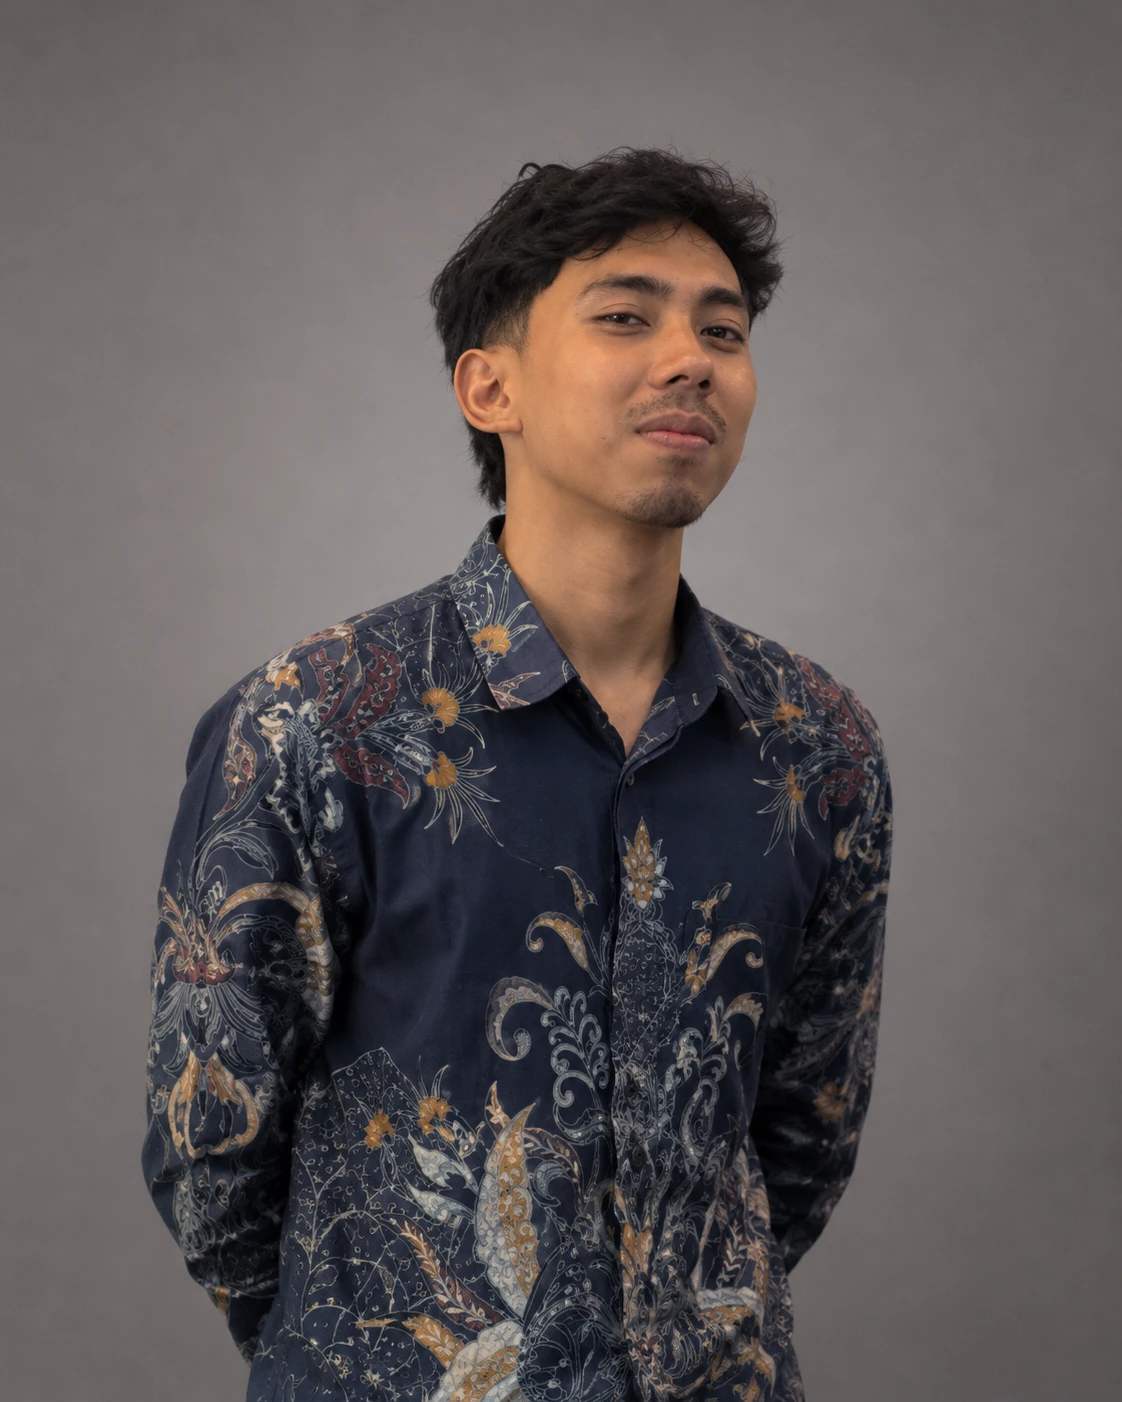
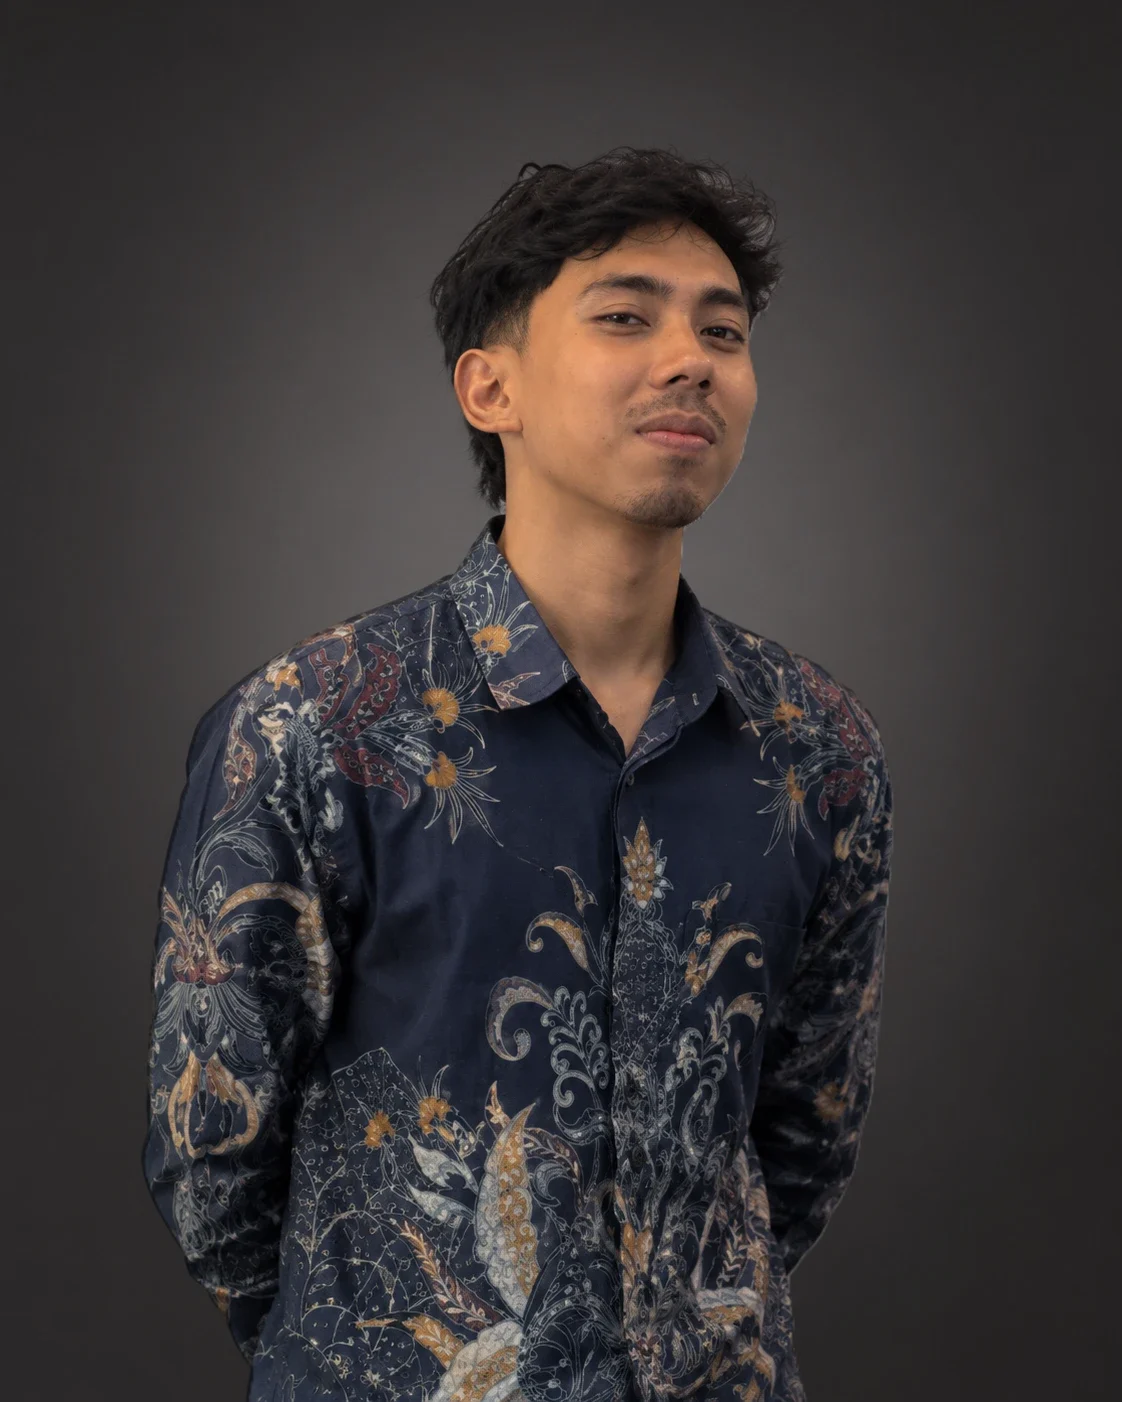
Set the hero like a magazine cover
The name now sits on the left in Instrument Serif, with the role and
"Based in Kuala Lumpur" under a short rule. The portrait moves right of
centre and is cropped mid-torso so the face reads bigger.

The studio backdrop is darkened to a warm charcoal, using the cut-out
only as a mask, so the body keeps its original pixels and edges. The
moving name is gone; each line of the name slides up after the intro.

diff --git a/css/style.css b/css/style.css
@@ -1,7 +1,8 @@
 /*
  * Afiq Izzudin, portfolio
  * Editorial feel inspired by dennissnellenberg.com, with its own identity:
- * a warm grey hero taken from the portrait, a white middle, a near-black footer and one navy accent.
+ * a dark warm grey hero taken from the portrait, a white middle, a near-black footer and one navy accent.
+ * The name is set in Instrument Serif, the serif sister of the body font.
  */
 
 /* ---------- Tokens ---------- */
@@ -18,12 +19,13 @@
   --navy: #1e3a8a;
   --navy-hover: #2747a8;
 
-  /* Sampled from the portrait's studio backdrop, so the photo blends into the hero. */
-  --hero-center: #847e7d;
-  --hero-mid: #716b6b;
-  --hero-edge: #5b5655;
+  /* Sampled from the portrait's darkened studio backdrop, so the photo blends into the hero. */
+  --hero-center: #3a3635;
+  --hero-mid: #302d2c;
+  --hero-edge: #252322;
 
   --font: "Instrument Sans", "Helvetica Neue", Arial, sans-serif;
+  --font-display: "Instrument Serif", Georgia, "Times New Roman", serif;
   --tracking: 0.02em;
   --ease-out: cubic-bezier(0.22, 1, 0.36, 1);
   --ease-in-out: cubic-bezier(0.76, 0, 0.24, 1);
@@ -241,114 +243,106 @@ html.lenis body {
 
 /* ---------- Hero ---------- */
 
+/* An editorial cover: the name on the left, the portrait right of centre, lit from behind. */
 .hero {
-  /* Shared by the moving name and the location line that sits on top of it. */
-  --name-size: clamp(88px, 15vw, 232px);
-  --name-bottom: clamp(12px, 4vh, 44px);
   position: relative;
   height: 100svh;
   min-height: 640px;
   overflow: hidden;
-  background: radial-gradient(ellipse 75% 85% at 50% 30%, var(--hero-center) 0%, var(--hero-mid) 55%, var(--hero-edge) 100%);
+  background: radial-gradient(ellipse 55% 95% at 66% 57%, var(--hero-center) 0%, var(--hero-mid) 50%, var(--hero-edge) 100%);
   color: var(--white);
 }
 
-/* The studio portrait, with its edges faded into the matching hero grey. */
+/* The studio portrait, its backdrop darkened to the hero grey and its edges faded out.
+   It is enlarged so the frame cuts mid-torso, above the elbows, and the face reads bigger. */
 .hero__photo {
   position: absolute;
-  bottom: 0;
-  left: 50%;
+  top: -4%;
+  left: 66%;
   width: auto;
   max-width: none;
-  height: 92%;
+  height: 139%;
   transform: translateX(-50%);
   -webkit-mask-image:
-    linear-gradient(to right, transparent 0, #000 18%, #000 82%, transparent 100%),
-    linear-gradient(to bottom, transparent 0, #000 14%);
+    linear-gradient(to right, transparent 0, #000 14%, #000 88%, transparent 100%),
+    linear-gradient(to bottom, transparent 0, #000 12%);
   -webkit-mask-composite: source-in;
   mask-image:
-    linear-gradient(to right, transparent 0, #000 18%, #000 82%, transparent 100%),
-    linear-gradient(to bottom, transparent 0, #000 14%);
+    linear-gradient(to right, transparent 0, #000 14%, #000 88%, transparent 100%),
+    linear-gradient(to bottom, transparent 0, #000 12%);
   mask-composite: intersect;
 }
 
-/* Ends just before the portrait's left arm, which reaches further out than the right one. */
-.hero__location {
+.hero__intro {
   position: absolute;
-  right: calc(50% + max(17vw, 27svh + 60px, 240px));
-  bottom: calc(var(--name-bottom) + var(--name-size) + 24px);
-  font-size: clamp(16px, 1.6vw, 26px);
-  line-height: 1.25;
-  white-space: nowrap;
+  bottom: clamp(32px, 8svh, 88px);
+  left: var(--gutter);
+  z-index: 1;
 }
 
-/* Starts just past the portrait's shoulder, so it follows the photo's height as well as the page width. */
-.hero__role {
-  position: absolute;
-  top: 36%;
-  right: var(--gutter);
-  left: calc(50% + max(16vw, 21svh + 64px, 200px));
-  font-size: clamp(20px, 2.1vw, 32px);
-  line-height: 1.25;
+.hero__name {
+  font-family: var(--font-display);
+  font-size: clamp(64px, min(12vw, 21svh), 200px);
+  font-weight: 400;
+  line-height: 0.92;
+  letter-spacing: -0.01em;
 }
 
-.hero__arrow {
+/* Each line of the name slides up from behind its own edge when the intro ends. */
+.hero__line {
   display: block;
-  width: 22px;
-  height: 22px;
-  margin-bottom: 28px;
-  fill: none;
-  stroke: currentColor;
-  stroke-width: 1.4;
-}
-
-.marquee {
-  position: absolute;
-  right: 0;
-  bottom: var(--name-bottom);
-  left: 0;
   overflow: hidden;
-  pointer-events: none;
+  /* Room for the tail of the q. */
+  padding-bottom: 0.1em;
+  margin-bottom: -0.1em;
 }
 
-.marquee__track {
-  display: flex;
-  width: max-content;
-  will-change: transform;
+.hero__line > span {
+  display: block;
 }
 
-.marquee__item {
-  display: flex;
-  align-items: center;
-  padding-right: 0.24em;
-  font-size: var(--name-size);
-  line-height: 1;
-  letter-spacing: -0.03em;
-  white-space: nowrap;
+.hero__role {
+  margin-top: clamp(20px, 5svh, 48px);
+  font-size: clamp(18px, 1.9vw, 30px);
+  line-height: 1.3;
 }
 
-/* The separator after the name is a drawn line, not a dash character. */
-.marquee__dash {
-  display: inline-block;
-  width: 0.42em;
-  height: 0.05em;
-  margin-left: 0.24em;
+/* A short drawn rule above the location, like a caption under a cover photo. */
+.hero__location {
+  margin-top: clamp(28px, 8svh, 80px);
+  color: rgba(255, 255, 255, 0.72);
+  font-size: 14px;
+}
+
+.hero__location::before {
+  content: "";
+  display: block;
+  width: 64px;
+  height: 1px;
+  margin-bottom: 14px;
   background: currentColor;
 }
 
 /* The hero rises into place as the intro curtain lifts. */
 .hero__photo,
-.hero__location,
 .hero__role,
-.marquee {
+.hero__location,
+.hero__line > span {
   transition: translate 1.2s var(--ease-out) 0.15s;
 }
 
+.hero__line:nth-child(2) > span {
+  transition-delay: 0.23s;
+}
+
 .is-intro .hero__photo,
-.is-intro .hero__location,
 .is-intro .hero__role,
-.is-intro .marquee {
+.is-intro .hero__location {
   translate: 0 60px;
+}
+
+.is-intro .hero__line > span {
+  translate: 0 110%;
 }
 
 /* ---------- Buttons and links ---------- */
@@ -989,28 +983,33 @@ html.lenis body {
     grid-column: 1 / -1;
   }
 
-  /* On small screens the title sits over the busy batik pattern, so a soft shadow keeps it readable. */
-  .hero__role {
-    top: auto;
-    right: auto;
-    bottom: calc(15vw + 64px);
-    left: var(--gutter);
-    width: auto;
-    font-size: 20px;
-    text-shadow: 0 1px 14px rgba(0, 0, 0, 0.45);
+  /* On narrow screens the name moves to the top and the portrait sits below it. */
+  .hero {
+    background: radial-gradient(ellipse 90% 70% at 50% 70%, var(--hero-center) 0%, var(--hero-mid) 50%, var(--hero-edge) 100%);
   }
 
-  .hero__arrow {
-    margin-bottom: 14px;
+  .hero__photo {
+    top: 34%;
+    left: 50%;
+    height: 80%;
+  }
+
+  .hero__intro {
+    top: clamp(96px, 14svh, 132px);
+    bottom: auto;
+  }
+
+  .hero__name {
+    font-size: clamp(56px, 15vw, 112px);
+  }
+
+  .hero__role {
+    margin-top: 16px;
+    font-size: 18px;
   }
 
   .hero__location {
-    top: 120px;
-    right: auto;
-    bottom: auto;
-    left: var(--gutter);
-    font-size: 16px;
-    text-shadow: 0 1px 14px rgba(0, 0, 0, 0.45);
+    margin-top: 20px;
   }
 
   .footer__rule .circle-btn {

diff --git a/index.html b/index.html
@@ -18,7 +18,7 @@
   <link rel="icon" href="assets/favicon.svg" type="image/svg+xml">
   <link rel="preconnect" href="https://fonts.googleapis.com">
   <link rel="preconnect" href="https://fonts.gstatic.com" crossorigin>
-  <link rel="stylesheet" href="https://fonts.googleapis.com/css2?family=Instrument+Sans:wdth,wght@75..100,400..600&display=swap">
+  <link rel="stylesheet" href="https://fonts.googleapis.com/css2?family=Instrument+Sans:wdth,wght@75..100,400..600&family=Instrument+Serif&display=swap">
   <link rel="stylesheet" href="css/style.css">
   <link rel="preload" href="assets/afiq.webp" as="image" type="image/webp">
 
@@ -46,21 +46,15 @@
 
   <main id="main">
     <section class="hero" id="top" aria-labelledby="hero-title">
-      <h1 class="visually-hidden" id="hero-title">Afiq Izzudin, Business Process &amp; Automation Analyst in Kuala Lumpur</h1>
       <img class="hero__photo" src="assets/afiq.webp" alt="Afiq Izzudin, smiling, in a navy batik shirt" width="1122" height="1402" fetchpriority="high">
 
-      <p class="hero__location">Based in Kuala Lumpur</p>
-
-      <p class="hero__role">
-        <svg class="hero__arrow" viewBox="0 0 24 24" aria-hidden="true"><path d="M6 6l12 12M18 9v9H9"/></svg>
-        <span>Business Process &amp;<br>Automation Analyst</span>
-      </p>
-
-      <div class="marquee" aria-hidden="true">
-        <div class="marquee__track">
-          <span class="marquee__item">Afiq Izzudin<span class="marquee__dash"></span></span>
-          <span class="marquee__item">Afiq Izzudin<span class="marquee__dash"></span></span>
-        </div>
+      <div class="hero__intro">
+        <h1 class="hero__name" id="hero-title">
+          <span class="hero__line"><span>Afiq</span></span>
+          <span class="hero__line"><span>Izzudin</span></span>
+        </h1>
+        <p class="hero__role">Business Process &amp;<br>Automation Analyst</p>
+        <p class="hero__location">Based in Kuala Lumpur</p>
       </div>
     </section>
 

diff --git a/js/main.js b/js/main.js
@@ -3,7 +3,6 @@
  */
 import { initClock } from './clock.js';
 import { initFooterCurve } from './footer-curve.js';
-import { initMarquee } from './marquee.js';
 import { playIntro } from './preloader.js';
 import { initReveal } from './reveal.js';
 import { initSmoothScroll } from './smooth-scroll.js';
@@ -13,7 +12,6 @@ const reduceMotion = window.matchMedia('(prefers-reduced-motion: reduce)').match
 
 const scroller = initSmoothScroll({ enabled: !reduceMotion });
 playIntro(document.querySelector('.preloader'), scroller);
-initMarquee(document.querySelector('.marquee__track'), scroller, { reduceMotion });
 initReveal({ reduceMotion });
 initToolPreview(document.querySelector('.tool-list'), document.querySelector('.tool-preview'));
 initFooterCurve(document.querySelector('.footer__curve'));

diff --git a/README.md b/README.md
@@ -8,7 +8,7 @@ Portfolio of **Ahmad Afiq Izzudin**, Business Process & Automation Analyst in Ku
 
 ## What is on the page
 
-1. **Hero** with a moving name and a short intro.
+1. **Hero** set like a magazine cover: the name, the role and the portrait.
 2. **What I do**, in one sentence.
 3. **Real impact** from automation projects at Worldline, each with the problem, what I did and the result.
 4. **Tools I built**: [Data Cleaner](https://afiqizzudinnn.github.io/excel-data-cleaner/), [Report Merger](https://afiqizzudinnn.github.io/excel-report-merger/) and [ROI Calculator](https://afiqizzudinnn.github.io/automation-roi-calculator/), all free and open source.
@@ -17,7 +17,7 @@ Portfolio of **Ahmad Afiq Izzudin**, Business Process & Automation Analyst in Ku
 
 ## How it is built
 
-No framework, no build step and no server. Plain HTML, CSS and JavaScript modules, with [Lenis](https://github.com/darkroomengineering/lenis) for smooth scrolling and [Instrument Sans](https://fonts.google.com/specimen/Instrument+Sans) for type. Each script does one job:
+No framework, no build step and no server. Plain HTML, CSS and JavaScript modules, with [Lenis](https://github.com/darkroomengineering/lenis) for smooth scrolling, [Instrument Sans](https://fonts.google.com/specimen/Instrument+Sans) for type and [Instrument Serif](https://fonts.google.com/specimen/Instrument+Serif) for the name. Each script does one job:
 
 ```
 index.html              page markup and content
@@ -26,7 +26,6 @@ js/intro-check.js       decides before the first paint whether the intro plays
 js/main.js              starts everything below
 js/preloader.js         the "Hello, Hai, Selamat datang" intro
 js/smooth-scroll.js     smooth scrolling and in-page links
-js/marquee.js           the moving name in the hero
 js/reveal.js            words and blocks that rise into view
 js/tool-preview.js      the screenshot that follows the mouse over the tools
 js/footer-curve.js      the curved edge above the footer
